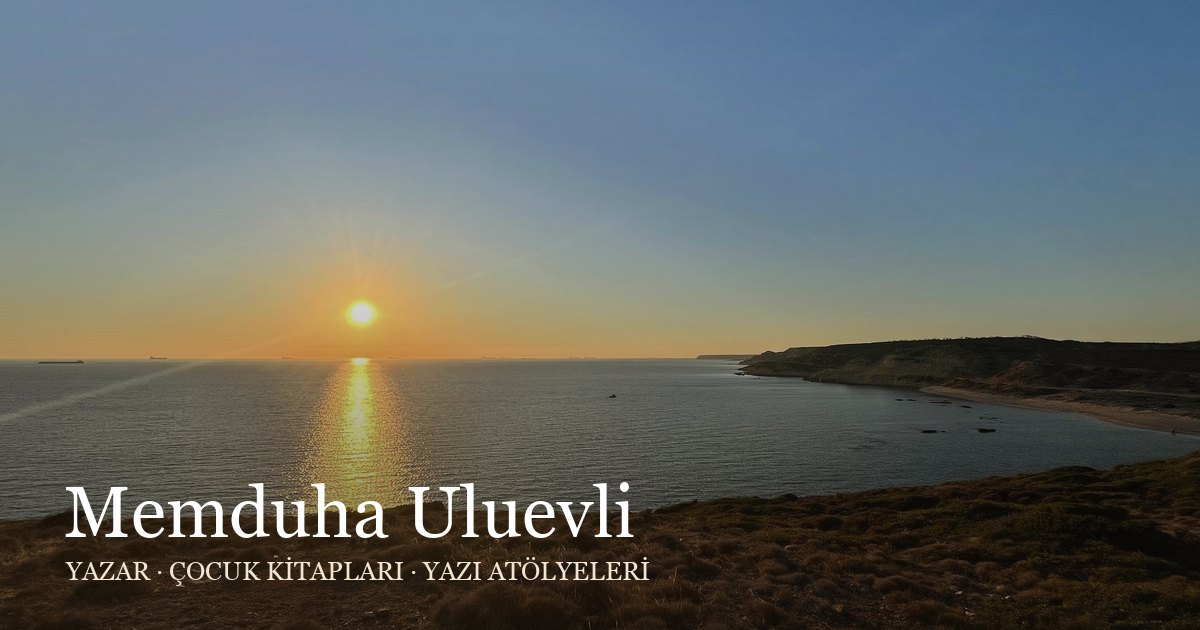
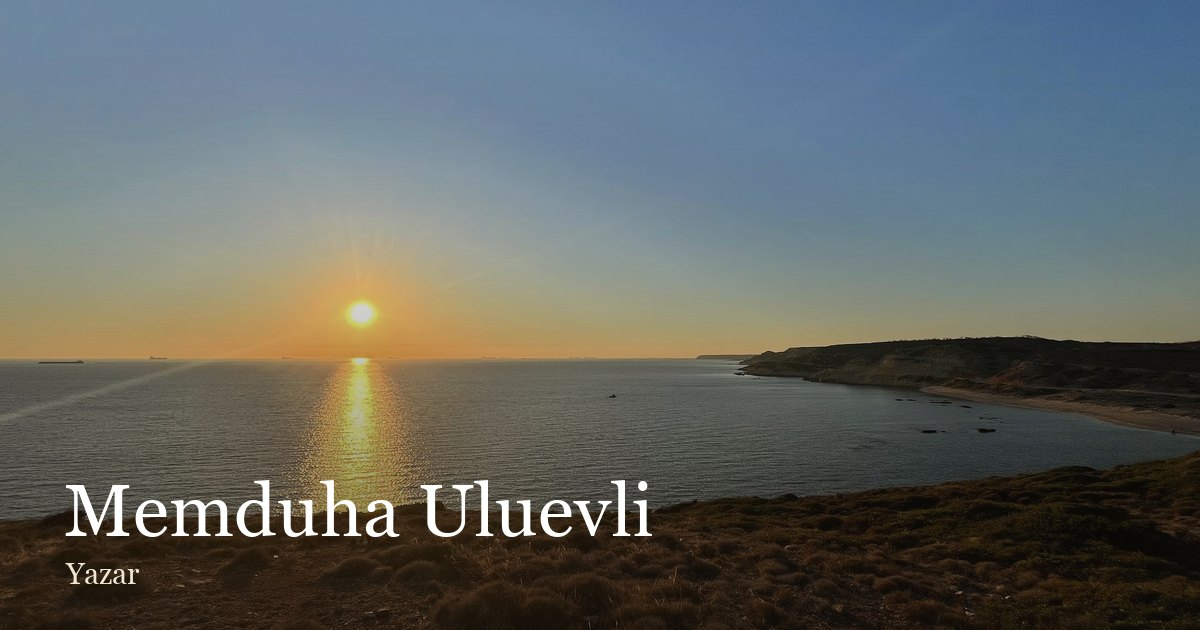
SEO: ana sayfa açıklaması ve paylaşım görselinden 'çocuk kitapları'nı kaldır, sadece 'Yazar' bırak

Changed region(s): [[0.0617, 0.754, 0.555, 0.9349]]

diff --git a/index.html b/index.html
@@ -4,7 +4,7 @@
   <meta charset="UTF-8" />
   <meta name="viewport" content="width=device-width, initial-scale=1.0" />
   <title>Memduha Uluevli — Yazar</title>
-  <meta name="description" content="Memduha Uluevli — yazar. Çocuk kitapları, yazı atölyeleri ve İstanbul ile Bozcaada'dan ilham gezileri." />
+  <meta name="description" content="Memduha Uluevli — Yazar. Yazı atölyeleri ve İstanbul ile Bozcaada'dan ilham gezileri." />
   <link rel="preconnect" href="https://fonts.googleapis.com" />
   <link rel="preconnect" href="https://fonts.gstatic.com" crossorigin />
   <link href="https://fonts.googleapis.com/css2?family=Fraunces:ital,opsz,wght@0,9..144,400;0,9..144,500;1,9..144,400&family=Spectral:ital,wght@0,400;0,500;1,400&display=swap&subset=latin-ext" rel="stylesheet" />
@@ -15,14 +15,14 @@
   <meta property="og:site_name" content="Memduha Uluevli" />
   <meta property="og:locale" content="tr_TR" />
   <meta property="og:title" content="Memduha Uluevli — Yazar" />
-  <meta property="og:description" content="Memduha Uluevli — yazar. Çocuk kitapları, yazı atölyeleri ve İstanbul ile Bozcaada&#x27;dan ilham gezileri." />
+  <meta property="og:description" content="Memduha Uluevli — Yazar. Yazı atölyeleri ve İstanbul ile Bozcaada&#x27;dan ilham gezileri." />
   <meta property="og:url" content="https://memduhayaziyor.com/" />
   <meta property="og:image" content="https://memduhayaziyor.com/img/og-image.jpg" />
   <meta property="og:image:width" content="1200" />
   <meta property="og:image:height" content="630" />
   <meta name="twitter:card" content="summary_large_image" />
   <meta name="twitter:title" content="Memduha Uluevli — Yazar" />
-  <meta name="twitter:description" content="Memduha Uluevli — yazar. Çocuk kitapları, yazı atölyeleri ve İstanbul ile Bozcaada&#x27;dan ilham gezileri." />
+  <meta name="twitter:description" content="Memduha Uluevli — Yazar. Yazı atölyeleri ve İstanbul ile Bozcaada&#x27;dan ilham gezileri." />
   <meta name="twitter:image" content="https://memduhayaziyor.com/img/og-image.jpg" />
   <script type="application/ld+json">
 {
@@ -31,7 +31,7 @@
   "name": "Memduha Uluevli",
   "url": "https://memduhayaziyor.com",
   "jobTitle": "Yazar",
-  "description": "Çocuk kitapları yazan, çocuklar ve yetişkinlerle yazı atölyeleri düzenleyen yazar. İstanbul ve Bozcaada'dan ilham alıyor.",
+  "description": "Yazı atölyeleri düzenleyen, İstanbul ve Bozcaada'dan ilham alan yazar.",
   "image": "https://memduhayaziyor.com/img/og-image.jpg",
   "sameAs": [
     "https://www.instagram.com/memdush.yaziyo/",
